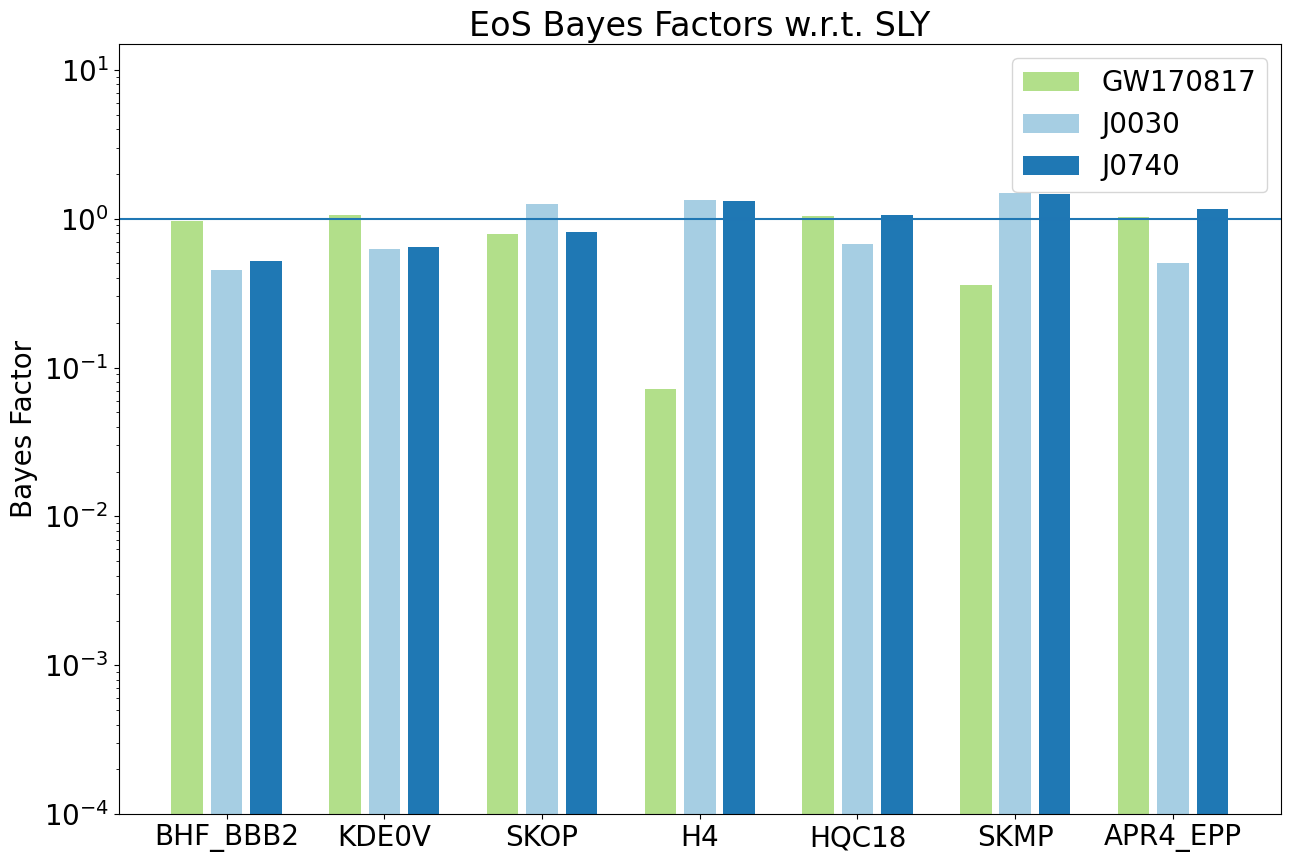
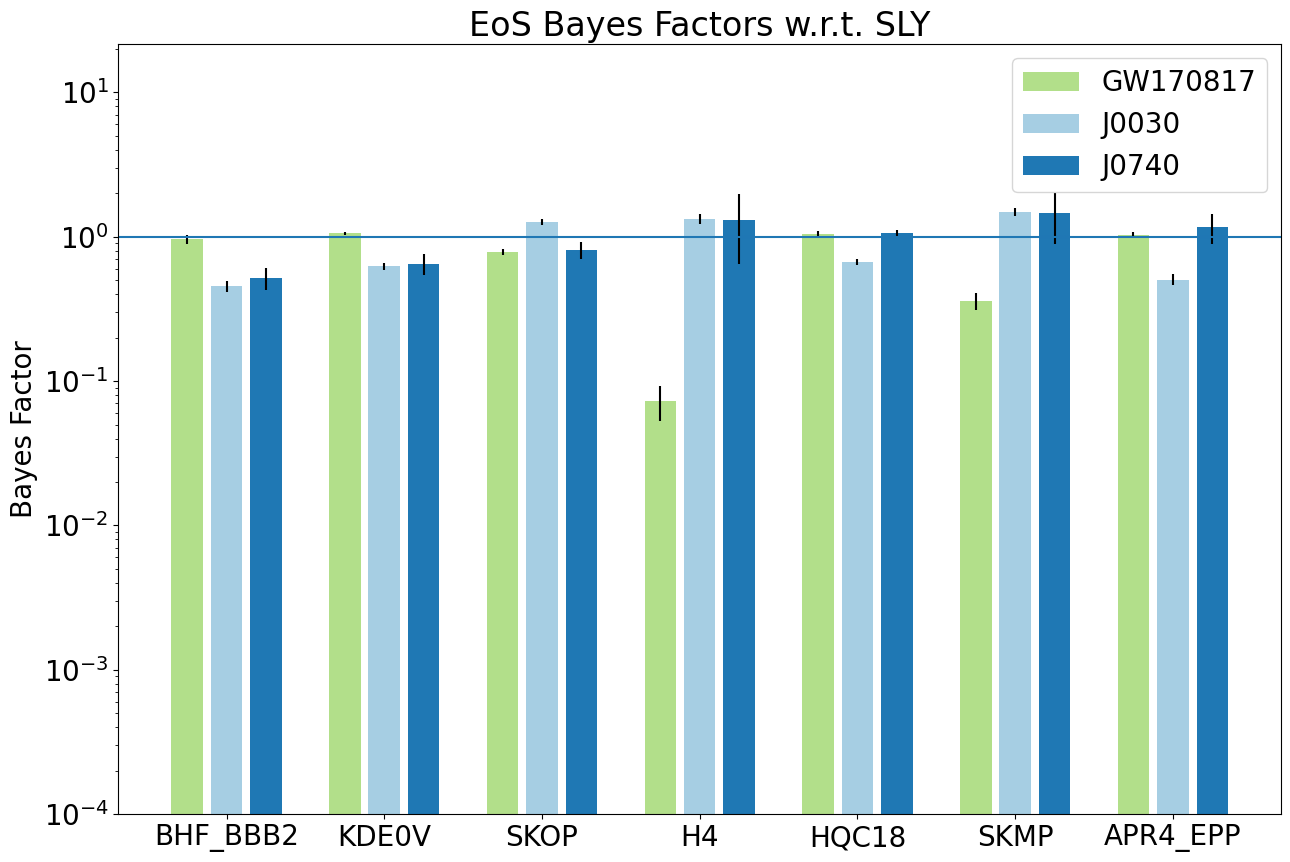
Last message shoulda been - Test EM-GW joint BF plot. Same here, but with more EoSs.

diff --git a/year2/compare_EMGW_BFs/BFs_Compare.py b/year2/compare_EMGW_BFs/BFs_Compare.py
@@ -8,13 +8,12 @@ def combine_events():
     EM_events = ["anaryaShare/Files/J0030_3spot_RM.txt","anaryaShare/Files/NICER+XMM_J0740_RM.txt"]
     modsels = ems.Stacking(GW_events,em_event_list=EM_events,spectral=True)
     #eosList = ["BHF_BBB2","KDE0V","SKOP","H4","HQC18","SKMP","APR4_EPP","MPA1","MS1_PP","MS1B_PP"]
-    #eosList = ["BHF_BBB2","KDE0V","SKOP","H4","HQC18","SKMP","APR4_EPP"]
-    eosList = ["BHF_BBB2","KDE0V"]
+    eosList = ["BHF_BBB2","KDE0V","SKOP","H4","HQC18","SKMP","APR4_EPP"]
 
     BFs = []
     uncerts = []
     for eos in eosList:
-        bf, bf_trials = modsels.stack_events(EoS1=eos,EoS2="SLY",trials=100)
+        bf, bf_trials = modsels.stack_events(EoS1=eos,EoS2="SLY",trials=1000)
         #bf = modsels.stack_events(eos,"SLY",trials=0)
         uncert = np.std(bf_trials) * 2
         BFs.append(bf)
@@ -44,8 +43,7 @@ def individual_events():
     methods = [modselGW170817, modselJ0030, modselJ0740]
     labels = ["GW170817","J0030","J0740"]
     #eosList = ["BHF_BBB2","KDE0V","SKOP","H4","HQC18","SKMP","APR4_EPP","MPA1","MS1_PP","MS1B_PP"]
-    #eosList = ["BHF_BBB2","KDE0V","SKOP","H4","HQC18","SKMP","APR4_EPP"]
-    eosList = ["BHF_BBB2","KDE0V"]
+    eosList = ["BHF_BBB2","KDE0V","SKOP","H4","HQC18","SKMP","APR4_EPP"]
 
     methods_BFs = []
     methods_uncerts = []
@@ -53,7 +51,7 @@ def individual_events():
         BFs = []
         uncerts = []
         for eos in eosList:
-            bf, bf_trials = method.computeEvidenceRatio(EoS1=eos,EoS2="SLY",trials=100)
+            bf, bf_trials = method.computeEvidenceRatio(EoS1=eos,EoS2="SLY",trials=1000)
             #bf = method.computeEvidenceRatio(EoS1=eos,EoS2="SLY",trials=0)
             uncert = np.std(bf_trials) * 2
             BFs.append(bf)
